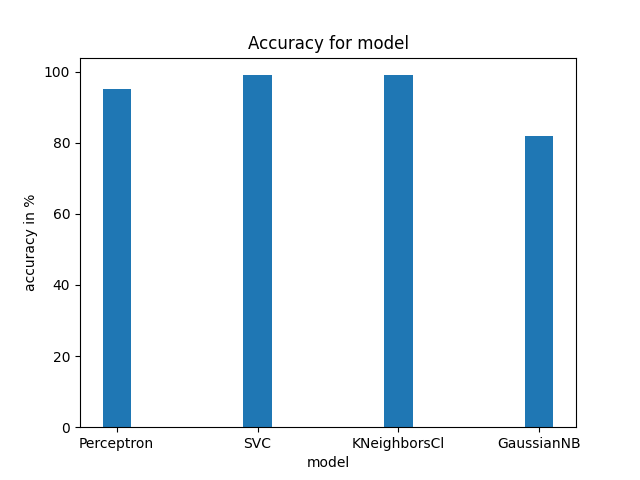
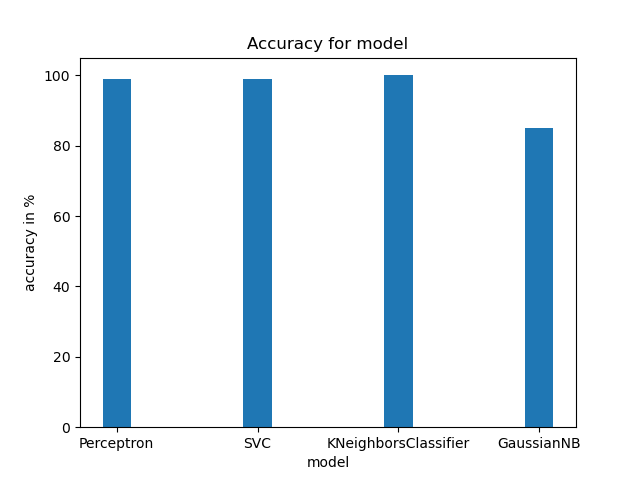
code improvement

diff --git a/banknotes0.py b/banknotes0.py
@@ -76,11 +76,10 @@ training = data[holdout:]
 model = None
 
 res = array([
-    ['Model','Correct','Incorrect','Accuracy (%)','Cost (s)'],
+    ['Model','Correct','Incorrect','Accuracy (%)','Cost (ms)'],
     [0,0,0,0,0], [0,0,0,0,0], [0,0,0,0,0], [0,0,0,0,0] ])
 
 graf_res = array([[0,0,0,0],[0,0,0,0],[0,0,0,0],[0,0,0,0]])
-nomi_graf = array(['Perceptron','SVC','KNeighborsCl','GaussianNB'])
 
 for x in range(4):
 
@@ -93,7 +92,6 @@ for x in range(4):
     if x == 3:
         model = GaussianNB()
 
-    # print(f"X = {x}")
     t = time.process_time()
 
     # Train model on training set
@@ -118,24 +116,25 @@ for x in range(4):
             incorrect += 1
 
     # Print results
+    accurance = 100 * correct / total
+    cost = int(1000 * (time.process_time() - t))
+
     res[x+1][0] = type(model).__name__
     res[x+1][1] = correct
     res[x+1][2] = incorrect
-    res[x+1][3] = f"{100 * correct / total:.2f}"
-    res[x+1][4] = f"{time.process_time() - t:.4f}"
+    res[x+1][3] = f"{accurance:.2f}"
+    res[x+1][4] = cost
 
     # Res for graphs
-
     graf_res[0][x] = correct
     graf_res[1][x] = incorrect
-    graf_res[2][x] = 100 * correct / total
-    graf_res[3][x] = time.process_time() - t
-
-
+    graf_res[2][x] = accurance
+    graf_res[3][x] = cost
 
 
 print (tabulate(res[1:], headers=res[0]))
 
+nomi_graf = [x[0] for x in res[1:]]
 
 x_pos = np.arange(len(nomi_graf))
 plt.bar(x_pos, graf_res[0], width=0.2, align='center', label='correct')
@@ -145,7 +144,6 @@ plt.xlabel('model')
 plt.title('Correct answers for model')
 plt.savefig('graph_corr.png')
 plt.clf()
-
 
 plt.bar(x_pos, graf_res[1], width=0.2, align='center', label='correct')
 plt.xticks(x_pos, nomi_graf)
@@ -165,11 +163,12 @@ plt.clf()
 
 plt.bar(x_pos, graf_res[3], width=0.2, align='center', label='correct')
 plt.xticks(x_pos, nomi_graf)
-plt.ylabel('seconds')
+plt.ylabel('millisecond')
 plt.xlabel('model')
 plt.title('Cost for model')
 plt.savefig('graph_cost.png')
 plt.clf()
+
 
 
 # grafico a barre
@@ -182,4 +181,3 @@ plt.clf()
 # plt.title('Risposte per metodo')
 # plt.legend()
 # plt.savefig('grafico_barre.png')
-
